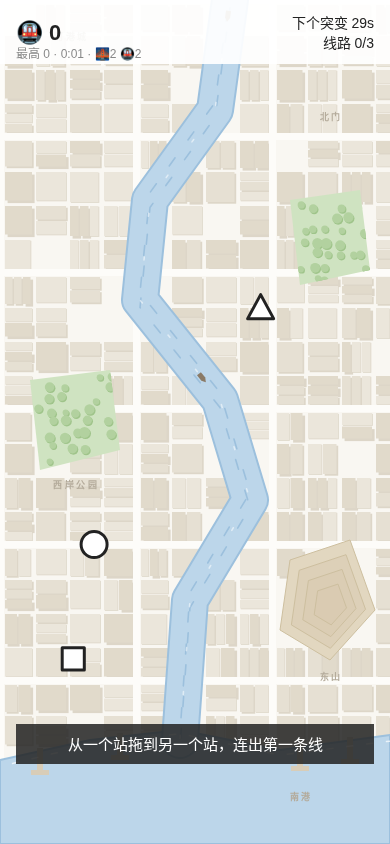
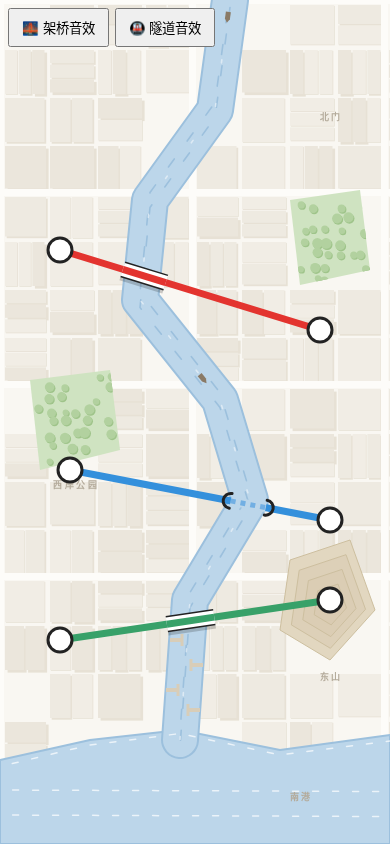
art(B6): 格子放大、屋顶调淡、码头移到河口、夜景截图

Changed region(s): [[0.0, 0.0, 1.0, 0.9242], [0.2462, 0.4005, 0.2769, 0.4313]]

diff --git a/src/art/basemap.ts b/src/art/basemap.ts
@@ -1,7 +1,7 @@
 import type { LevelMap, Poly, Pt } from '../map/types';
 import { isWater, pointInPolygon } from '../map/level1';
 import { PALETTE as P } from './palette';
-const W = 390, H = 844, G = 34, DAY = 180;
+const W = 390, H = 844, G = 48, DAY = 180;
 
 /** 底图：静态层（路网、屋顶、公园树冠、丘陵、海岸、码头、地名）缓存到离屏画布；
  *  波光、小船、浪花、昼夜色调、夜灯每帧按 t 画。全部低对比度，只做装饰。 */
@@ -73,11 +73,11 @@ function buildStatic(map: LevelMap, dpr: number) {
   c.strokeStyle = P.waterLine; c.lineWidth = 2; path(c, map.sea); c.stroke();
   path(c, map.river.center, false); c.strokeStyle = P.waterLine; c.lineWidth = map.river.width + 4; c.stroke();
   path(c, map.river.center, false); c.strokeStyle = P.water; c.lineWidth = map.river.width; c.stroke();
-  // 码头：沿海岸伸进海里的几道栈桥
+  // 码头：河口两岸伸进河里的栈桥（教程条之上可见）
   c.fillStyle = P.pier;
-  for (const px of [40, 120, 300, 350]) {
-    let y = 700; while (y < 800 && !pointInPolygon({ x: px, y }, map.sea)) y++;
-    c.fillRect(px - 3, y - 4, 6, 26); c.fillRect(px - 9, y + 18, 18, 5);
+  for (const [y, dir] of [[640, -1], [690, -1], [665, 1], [710, 1]] as const) {
+    let x = 190; while (x > 0 && x < W && isWater({ x, y })) x += dir;
+    c.fillRect(Math.min(x, x - dir * 12), y - 2, 12, 4); c.fillRect(x - dir * 12 - 1.5, y - 6, 3, 12);
   }
   // 地名：淡色小字，放在角落空地
   c.fillStyle = P.label; c.font = '600 9px system-ui, sans-serif'; c.textAlign = 'center';
@@ -101,6 +101,7 @@ export function drawBasemap(ctx: CanvasRenderingContext2D, map: LevelMap, t: num
   ctx.setLineDash([6, 14]); ctx.lineDashOffset = Math.sin(t * 0.8) * 8; ctx.strokeStyle = P.foam;
   ctx.globalAlpha = 0.7; ctx.lineWidth = 1.5;
   path(ctx, map.sea.slice(0, 5).map(({ x, y }) => ({ x, y: y + 5 + Math.sin(t * 1.2 + x * 0.05) * 1.5 })), false); ctx.stroke();
+  for (const y of [790, 815]) { path(ctx, [{ x: 0, y }, { x: W, y: y + Math.sin(t * 0.6) * 2 }], false); ctx.stroke(); }
   ctx.setLineDash([]); ctx.globalAlpha = 1;
   // 小船：沿河中心线慢慢顺流漂下（约 70 秒一趟）
   for (const ph of [0, 0.5]) {
@@ -116,7 +117,7 @@ export function drawBasemap(ctx: CanvasRenderingContext2D, map: LevelMap, t: num
     ctx.fillStyle = P.lamp;
     for (const [i, { x, y }] of cache.lamps.entries()) {
       const on = (night - 0.45) * 1.8 - hash(i, 9) * 0.4; if (on <= 0) continue;
-      ctx.globalAlpha = Math.min(0.8, on); ctx.fillRect(x - 1, y - 1, 2, 2);
+      ctx.globalAlpha = Math.min(0.95, on * 1.5); ctx.fillRect(x - 1.5, y - 1.5, 3, 3);
     }
   }
   ctx.restore();

diff --git a/demo/crossings.html b/demo/crossings.html
@@ -10,7 +10,8 @@ import { PALETTE as P } from '../src/art/palette';
 import { playBridge, playTunnel, unlockAudio } from '../src/audio/sfx';
 const ctx = document.getElementById('c').getContext('2d');
 const segs = [[{x:60,y:250},{x:320,y:330},'bridge',P.lines[0]],[{x:70,y:470},{x:330,y:520},'tunnel',P.lines[1]],[{x:60,y:640},{x:330,y:600},'bridge',P.lines[2]]];
-const frame = t => { drawBasemap(ctx, LEVEL1, t/1000); ctx.lineCap='round';
+const T0 = +(new URLSearchParams(location.search).get('t') || 0); // 仅演示页：?t=120 看夜景
+const frame = t => { drawBasemap(ctx, LEVEL1, T0 + t/1000); ctx.lineCap='round';
   for (const [a,b,k,c] of segs){ ctx.strokeStyle=c; ctx.lineWidth=7; ctx.beginPath(); ctx.moveTo(a.x,a.y); ctx.lineTo(b.x,b.y); ctx.stroke(); drawCrossing(ctx,a,b,k,c);
     for (const p of [a,b]){ ctx.fillStyle=P.white; ctx.strokeStyle=P.ink; ctx.lineWidth=3; ctx.beginPath(); ctx.arc(p.x,p.y,12,0,7); ctx.fill(); ctx.stroke(); } }
   requestAnimationFrame(frame); };

diff --git a/src/art/palette.ts b/src/art/palette.ts
@@ -21,8 +21,8 @@ export const PALETTE = {
   hill: '#e2d7c0',
   hillLine: '#cdbf9f',
   road: '#fdfcf9',      // 大路
-  roofs: ['#ebe6db', '#e6e0d3', '#e1dacb'], // 屋顶高低三档
-  roofShadow: '#ddd6c8',
+  roofs: ['#f1ede5', '#eeeae1', '#ebe6dc'], // 屋顶高低三档
+  roofShadow: '#e7e1d5',
   tree: '#b2d19f',
   treeDark: '#9fc48a',
   hillShade: '#d9cbb0',
